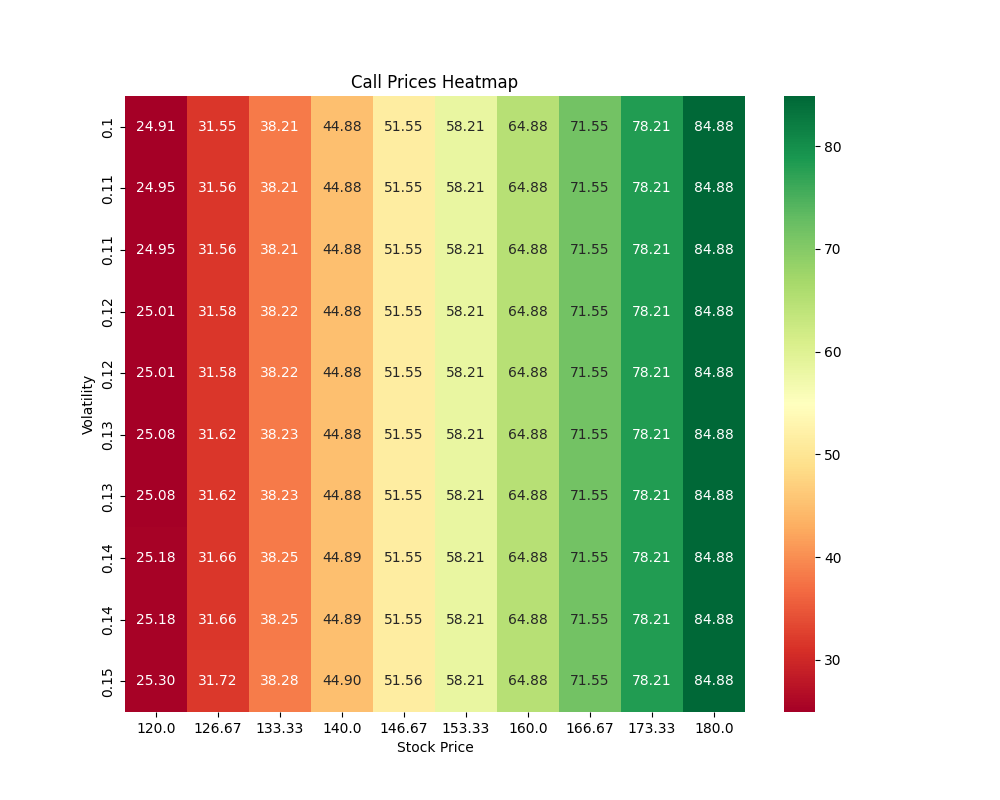
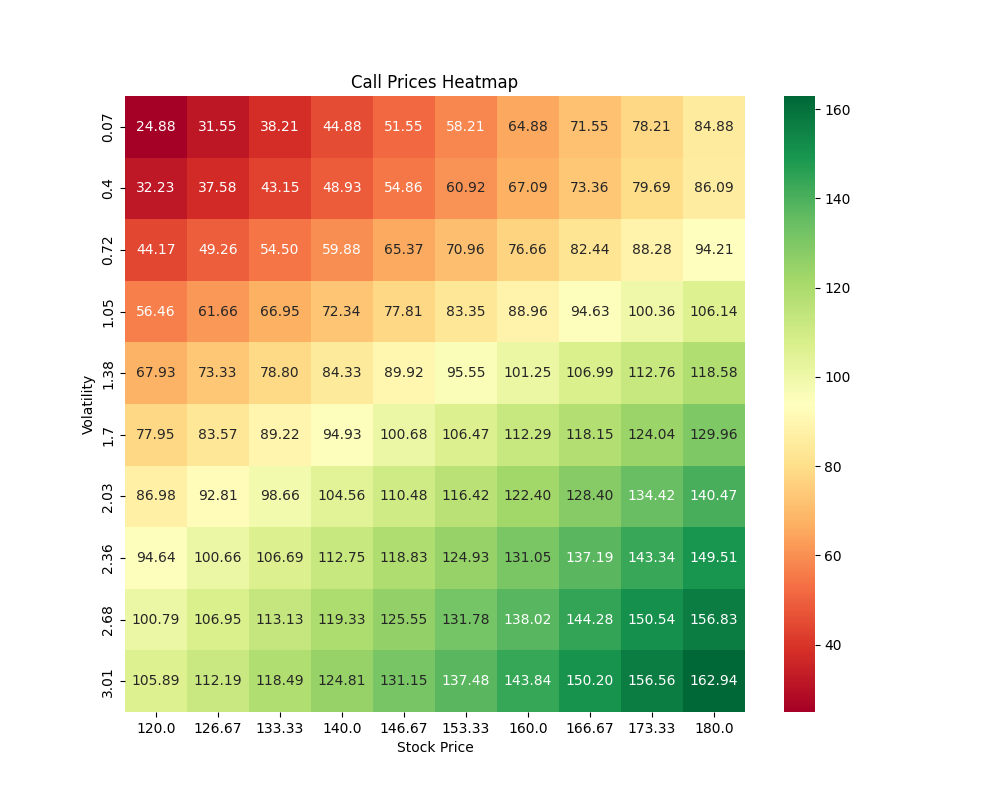
Fixed most of the bugs, generating maps is a bit buggy

diff --git a/templates/index.html b/templates/index.html
@@ -51,19 +51,19 @@
                     <div class="VolatilityParameters">
                         <div class="minVolCont">
                             <label for="minVolatility">Minimum Volatility</label>
-                            <input id="minVolatility" name="minVolatility" type="range" min="0.01" max="{{minVolatility}}" step="0.01" value="{{minVolatility}}">
+                            <input id="minVolatility" name="minVolatility" type="range" min="0.01" max="{{minVolatility}}" step="0.01" value="{{mappedMinVolatility}}">
                             <p>
                                 <span>0.01</span>
-                                <span class="myNum1">{{minVolatility}}</span>
+                                <span class="myNum1">{{mappedMinVolatility}}</span>
                                 <span>{{minVolatility}}</span>
                             </p>
                         </div>
                         <div class="maxVolCont">
                             <label for="maxVolatility">Maximum Volatility</label>
-                            <input id="maxVolatility" name="maxVolatility" type="range" min="0.01" max="{{maxVolatility}}" step="0.01" value="{{maxVolatility}}">
+                            <input id="maxVolatility" name="maxVolatility" type="range" min="0.01" max="{{maxVolatility}}" step="0.01" value="{{mappedMaxVolatility}}">
                             <p>
-                                <span>0.01</span>
-                                <span class="myNum2">{{maxVolatility}}</span>
+                                <span>{{minVolatility}}</span>
+                                <span class="myNum2">{{mappedMaxVolatility}}</span>
                                 <span>{{maxVolatility}}</span>
                             </p>
                         </div>

diff --git a/app.py b/app.py
@@ -15,6 +15,19 @@ app.config['HEATMAP_FOLDER'] = 'static/heatmaps'
 # Ensure the directory exists
 os.makedirs(app.config['HEATMAP_FOLDER'], exist_ok=True)
 
+
+# Default values
+S = 150.00
+X = 100.00
+r = 0.05
+T = 1.00
+sigma = 0.20
+minSP = 120
+maxSP = 180
+minVol = 0.1
+maxVol = 0.3
+colorPalette = "RdYlGn"
+
 def call(S, X, T, r, sigma):
     d1 = (np.log(S/X)+(r+((sigma)**2)/2)*T)/(sigma*np.sqrt(T))
     d2 = d1 - (sigma*np.sqrt(T))
@@ -46,33 +59,22 @@ def generateHeatMap(prices, stockrange, volrange, title, colorpal, filename):
 
 @app.route("/", methods=["GET"])
 def index():
-    # Default values
-    S = 150.00
-    X = 100.00
-    r = 0.05
-    T = 1.00
-    sigma = 0.20
-
     call_price = call(S, X, T, r, sigma)
     put_price = put(S, X, T, r, sigma)
 
-    MinSP = S * 0.8
-    MaxSP = S * 1.2
-    minVol = sigma * 0.5
-    maxVol = sigma * 1.5
-
-    stockRange = np.round(np.linspace(MinSP, MaxSP, 10), 2)
+    stockRange = np.round(np.linspace(minSP, maxSP, 10), 2)
     volRange = np.round(np.linspace(minVol, maxVol, 10), 2)
 
     call_prices = np.zeros((len(stockRange), len(volRange)))
     put_prices = np.zeros((len(stockRange), len(volRange)))
 
+    mappedMinVol = minVol
+    mappedMaxVol = maxVol
+
     for i, vol in enumerate(volRange):
         for j, stock in enumerate(stockRange):
             call_prices[i, j] = call(stock, X, T, r, vol)
             put_prices[i, j] = put(stock, X, T, r, vol)
-
-    colorPalette = "RdYlGn"
 
     generateHeatMap(call_prices, stockRange, volRange, "Call Prices Heatmap",colorPalette, "call_prices_heatmap.png")
     generateHeatMap(put_prices, stockRange, volRange, "Put Prices Heatmap",colorPalette,"put_prices_heatmap.png")
@@ -88,11 +90,13 @@ def index():
         RFIR=f"{r:.2f}",
         expiration=f"{T:.2f}",
         volatility=f"{sigma:.2f}",
-        minStockPrice=f"{MinSP:.2f}",
-        maxStockPrice=f"{MaxSP:.2f}",
+        minStockPrice=f"{minSP:.2f}",
+        maxStockPrice=f"{maxSP:.2f}",
         minVolatility=f"{minVol:.2f}",
         maxVolatility=f"{maxVol:.2f}",
-        heatmapColors=colorPalette
+        mappedMinVolatility=f"{mappedMinVol:.2f}",
+        mappedMaxVolatility=f"{mappedMaxVol:.2f}",
+        heatmapColors=f"{colorPalette}"
     )
 
 @app.route("/calc", methods=["POST"])
@@ -106,14 +110,20 @@ def calc():
     call_price = call(S, X, T, r, sigma)
     put_price = put(S, X, T, r, sigma)
 
-    MinSP = getFormValue(request.form, "minStockPrice", S * 0.8)
-    MaxSP = getFormValue(request.form, "maxStockPrice", S * 1.2)
+    minSP = S * 0.8
+    maxSP =  S * 1.2
 
-    minVol = getFormValue(request.form, "minVolatility", sigma * 0.5)
-    maxVol = getFormValue(request.form, "maxVolatility", sigma * 1.5)
+    minVol = sigma * 0.5
+    maxVol =  sigma * 1.5
 
-    stockRange = np.round(np.linspace(MinSP, MaxSP, 10), 2)
-    volRange = np.round(np.linspace(minVol, maxVol, 10), 2)
+    mappedMinSP = getFormValue(request.form, "minStockPrice", minSP)
+    mappedMaxSP = getFormValue(request.form, "maxStockPrice", maxSP)
+
+    mappedMinVol = getFormValue(request.form, "minVolatility", minVol)
+    mappedMaxVol = getFormValue(request.form, "maxVolatility", maxVol)
+
+    stockRange = np.round(np.linspace(mappedMinSP, mappedMaxSP, 10), 2)
+    volRange = np.round(np.linspace(mappedMinVol, mappedMaxVol, 10), 2)
 
     call_prices = np.zeros((len(stockRange), len(volRange)))
     put_prices = np.zeros((len(stockRange), len(volRange)))
@@ -123,10 +133,7 @@ def calc():
             call_prices[i, j] = call(stock, X, T, r, vol)
             put_prices[i, j] = put(stock, X, T, r, vol)
     
-    if(request.form.get("heatmapColors")):
-        colorPalette = request.form["heatmapColors"]
-    else:
-        colorPalette = "RdYlGn"
+    colorPalette = request.form.get("heatmapColors", "RdYlGn")
 
     generateHeatMap(call_prices, stockRange, volRange, "Call Prices Heatmap", colorPalette, "call_prices_heatmap.png")
     generateHeatMap(put_prices, stockRange, volRange, "Put Prices Heatmap", colorPalette, "put_prices_heatmap.png")
@@ -142,11 +149,13 @@ def calc():
         RFIR=f"{r:.2f}",
         expiration=f"{T:.2f}",
         volatility=f"{sigma:.2f}",
-        minStockPrice=f"{MinSP:.2f}",
-        maxStockPrice=f"{MaxSP:.2f}",
+        minStockPrice=f"{minSP:.2f}",
+        maxStockPrice=f"{maxSP:.2f}",
         minVolatility=f"{minVol:.2f}",
         maxVolatility=f"{maxVol:.2f}",
-        heatmapColors=colorPalette
+        mappedMinVolatility=f"{mappedMinVol:.2f}",
+        mappedMaxVolatility=f"{mappedMaxVol:.2f}",
+        heatmapColors=f"{colorPalette}"
     )
 
 
